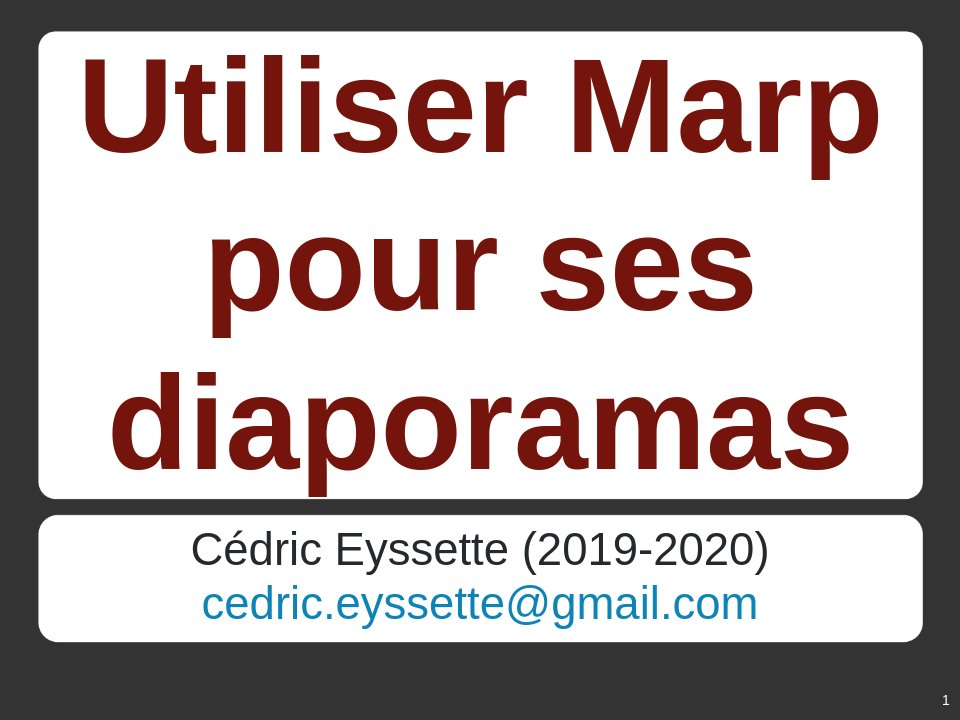
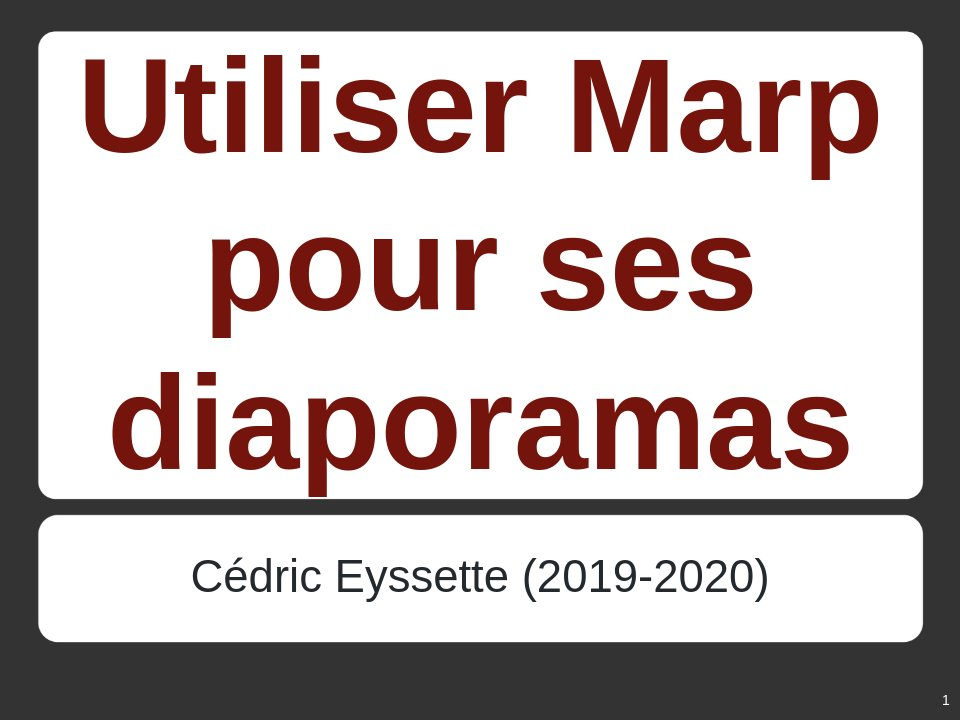
Deploying to master from  @ ca454c2c096dabcb8ff1154290762009a421ff03 🚀

Changed region(s): [[0.1875, 0.7333, 0.8125, 0.8861]]

diff --git a/index.html b/index.html
@@ -115,12 +115,11 @@
 /* MISE EN PAGE COMPLEXE */div#p>svg>foreignObject>section.grille.quadrillage{
     /*background-image: url('./images/quadrillage.png');*/background-image:url('https://i.ibb.co/RDz0HNP/quadrillage.png')}div#p>svg>foreignObject>section.grille{display:grid;grid-template-columns:repeat(96,1fr);grid-template-rows:repeat(72,1fr) ;margin:0;padding:0;padding-top:2px;padding-left:12px;font-size:2.5rem}div#p>svg>foreignObject>section.grille h1,div#p>svg>foreignObject>section.grille h2,div#p>svg>foreignObject>section.grille h3,div#p>svg>foreignObject>section.grille h4,div#p>svg>foreignObject>section.grille p{margin:0;padding:0}div#p>svg>foreignObject>section.grille p img{object-fit:cover;max-width:100%;max-height:100%}div#p>svg>foreignObject>section.grille h1,div#p>svg>foreignObject>section.grille h2,div#p>svg>foreignObject>section.grille h3,div#p>svg>foreignObject>section.grille h4{padding-top:20px;margin-bottom:0px}div#p>svg>foreignObject>section.grille ul{margin:0;padding:10px 0px 0px 0px}div#p>svg>foreignObject>section.grille ul li{padding-left:60px;padding-right:10px}
 
-/* Redimensionner l'image pour qu'on la voit en entier dans le cadre */div#p>svg>foreignObject>section.contain p img{object-fit:contain!important}div#p>svg>foreignObject>section{width:960px;height:720px}div#p>svg>foreignObject>section[data-marpit-scope-MJyUfqZo] ol{list-style-type:none}
+/* Redimensionner l'image pour qu'on la voit en entier dans le cadre */div#p>svg>foreignObject>section.contain p img{object-fit:contain!important}div#p>svg>foreignObject>section{width:960px;height:720px}div#p>svg>foreignObject>section[data-marpit-scope-gxhOQn8t] ol{list-style-type:none}
 
-/* La compilation via Github ne permet pas l'usage de la balise div, mais on peut l'utiliser en compilant sur son ordinateur */div#p>svg>foreignObject>section[data-marpit-scope-MaMjgymm] ul{padding-left:1.8em;background-color:inherit}div#p>svg>foreignObject>section[data-marpit-scope-MaMjgymm] ul li{padding-left:0.2em;list-style-type:disc}div#p>svg>foreignObject>section[data-marpit-scope-MaMjgymm] ul ul li{list-style-type:circle}div#p>svg>foreignObject>section[data-marpit-scope-MaMjgymm] ul li:before{content:none}div#p>svg>foreignObject>section[data-marpit-scope-UPJhga9a] p:first-child{padding-bottom:5px}div#p>svg>foreignObject>section[data-marpit-scope-6UpFrOlH] img{height:510px}div#p>svg>foreignObject>section[data-marpit-scope-eBx8w5tY] p:first-child img{object-position:0px -40px}div#p>svg>foreignObject>section[data-marpit-scope-FQkBxwo2] p:nth-child(2) img{object-position:0px -20px}div#p>svg>foreignObject>section[data-marpit-scope-YHFjHeTM] :first-child{font-size:inherit;grid-area:1/1/1/-1}div#p>svg>foreignObject>section[data-marpit-scope-YHFjHeTM] :nth-child(2){font-size:inherit;grid-area:1/1/-1/-1;display:none!important}div#p>svg>foreignObject>section[data-marpit-scope-YHFjHeTM] :nth-child(3){font-size:inherit;grid-area:1/1/-1/-1;display:none!important}div#p>svg>foreignObject>section[data-marpit-scope-YHFjHeTM] :nth-child(4){font-size:inherit;grid-area:1/1/-1/-1;display:none!important}div#p>svg>foreignObject>section[data-marpit-scope-YHFjHeTM] :nth-child(5){font-size:inherit;grid-area:1/1/-1/-1;display:none!important}div#p>svg>foreignObject>section[data-marpit-scope-odD5WvvO] :first-child{font-size:inherit;grid-area:7/6/25/-6}div#p>svg>foreignObject>section[data-marpit-scope-odD5WvvO] :nth-child(2){font-size:inherit;grid-area:32/6/-25/-6}div#p>svg>foreignObject>section[data-marpit-scope-odD5WvvO] :nth-child(3){font-size:29px;grid-area:32/22/-8/-6}div#p>svg>foreignObject>section[data-marpit-scope-odD5WvvO] :nth-child(4){font-size:inherit;grid-area:2/2/-2/-2;display:none!important}div#p>svg>foreignObject>section[data-marpit-scope-odD5WvvO] :nth-child(5){font-size:inherit;grid-area:2/2/-2/-2;display:none!important}div#p>svg>foreignObject>section[data-marpit-advanced-background=background]{display:block!important;padding:0!important}div#p>svg>foreignObject>section[data-marpit-advanced-background=background]:after,div#p>svg>foreignObject>section[data-marpit-advanced-background=background]:before,div#p>svg>foreignObject>section[data-marpit-advanced-background=content]:after,div#p>svg>foreignObject>section[data-marpit-advanced-background=content]:before{display:none!important}div#p>svg>foreignObject>section[data-marpit-advanced-background=background]>div[data-marpit-advanced-background-container]{all:initial;display:flex;flex-direction:row;height:100%;overflow:hidden;width:100%}div#p>svg>foreignObject>section[data-marpit-advanced-background=background]>div[data-marpit-advanced-background-container][data-marpit-advanced-background-direction=vertical]{flex-direction:column}div#p>svg>foreignObject>section[data-marpit-advanced-background=background][data-marpit-advanced-background-split]>div[data-marpit-advanced-background-container]{width:var(--marpit-advanced-background-split,50%)}div#p>svg>foreignObject>section[data-marpit-advanced-background=background][data-marpit-advanced-background-split=right]>div[data-marpit-advanced-background-container]{margin-left:calc(100% - var(--marpit-advanced-background-split, 50%))}div#p>svg>foreignObject>section[data-marpit-advanced-background=background]>div[data-marpit-advanced-background-container]>figure{all:initial;background-position:center;background-repeat:no-repeat;background-size:cover;flex:auto;margin:0}div#p>svg>foreignObject>section[data-marpit-advanced-background=content],div#p>svg>foreignObject>section[data-marpit-advanced-background=pseudo]{background:transparent!important}div#p>svg>foreignObject>section[data-marpit-advanced-background=pseudo],div#p>svg[data-marpit-svg]>foreignObject[data-marpit-advanced-background=pseudo]{pointer-events:none!important}div#p>svg>foreignObject>section[data-marpit-advanced-background-split]{width:100%;height:100%}</style></head><body><div class="bespoke-marp-osc"><button data-bespoke-marp-osc="prev" tabindex="-1" title="Previous slide">Previous slide</button><span data-bespoke-marp-osc="page"></span><button data-bespoke-marp-osc="next" tabindex="-1" title="Next slide">Next slide</button><button data-bespoke-marp-osc="fullscreen" tabindex="-1" title="Toggle fullscreen (f)">Toggle fullscreen</button><button data-bespoke-marp-osc="presenter" tabindex="-1" title="Open presenter view (p)">Open presenter view</button></div><div id="p"><svg data-marpit-svg="" viewBox="0 0 960 720"><foreignObject width="960" height="720"><section id="1" data-paginate="true" data-class="titre" data-theme="teaching" class="titre" data-marpit-pagination="1" data-marpit-pagination-total="103" style="--paginate:true;--class:titre;--theme:teaching;" data-size="4:3">
+/* La compilation via Github ne permet pas l'usage de la balise div, mais on peut l'utiliser en compilant sur son ordinateur */div#p>svg>foreignObject>section[data-marpit-scope-sZcD5CNo] ul{padding-left:1.8em;background-color:inherit}div#p>svg>foreignObject>section[data-marpit-scope-sZcD5CNo] ul li{padding-left:0.2em;list-style-type:disc}div#p>svg>foreignObject>section[data-marpit-scope-sZcD5CNo] ul ul li{list-style-type:circle}div#p>svg>foreignObject>section[data-marpit-scope-sZcD5CNo] ul li:before{content:none}div#p>svg>foreignObject>section[data-marpit-scope-gUMqyHSF] p:first-child{padding-bottom:5px}div#p>svg>foreignObject>section[data-marpit-scope-tJkUoSXH] img{height:510px}div#p>svg>foreignObject>section[data-marpit-scope-Hx0HiMnY] p:first-child img{object-position:0px -40px}div#p>svg>foreignObject>section[data-marpit-scope-Z1LrNy5x] p:nth-child(2) img{object-position:0px -20px}div#p>svg>foreignObject>section[data-marpit-scope-8q75qmqx] :first-child{font-size:inherit;grid-area:1/1/1/-1}div#p>svg>foreignObject>section[data-marpit-scope-8q75qmqx] :nth-child(2){font-size:inherit;grid-area:1/1/-1/-1;display:none!important}div#p>svg>foreignObject>section[data-marpit-scope-8q75qmqx] :nth-child(3){font-size:inherit;grid-area:1/1/-1/-1;display:none!important}div#p>svg>foreignObject>section[data-marpit-scope-8q75qmqx] :nth-child(4){font-size:inherit;grid-area:1/1/-1/-1;display:none!important}div#p>svg>foreignObject>section[data-marpit-scope-8q75qmqx] :nth-child(5){font-size:inherit;grid-area:1/1/-1/-1;display:none!important}div#p>svg>foreignObject>section[data-marpit-scope-FpRiP252] :first-child{font-size:inherit;grid-area:7/6/25/-6}div#p>svg>foreignObject>section[data-marpit-scope-FpRiP252] :nth-child(2){font-size:inherit;grid-area:32/6/-25/-6}div#p>svg>foreignObject>section[data-marpit-scope-FpRiP252] :nth-child(3){font-size:29px;grid-area:32/22/-8/-6}div#p>svg>foreignObject>section[data-marpit-scope-FpRiP252] :nth-child(4){font-size:inherit;grid-area:2/2/-2/-2;display:none!important}div#p>svg>foreignObject>section[data-marpit-scope-FpRiP252] :nth-child(5){font-size:inherit;grid-area:2/2/-2/-2;display:none!important}div#p>svg>foreignObject>section[data-marpit-advanced-background=background]{display:block!important;padding:0!important}div#p>svg>foreignObject>section[data-marpit-advanced-background=background]:after,div#p>svg>foreignObject>section[data-marpit-advanced-background=background]:before,div#p>svg>foreignObject>section[data-marpit-advanced-background=content]:after,div#p>svg>foreignObject>section[data-marpit-advanced-background=content]:before{display:none!important}div#p>svg>foreignObject>section[data-marpit-advanced-background=background]>div[data-marpit-advanced-background-container]{all:initial;display:flex;flex-direction:row;height:100%;overflow:hidden;width:100%}div#p>svg>foreignObject>section[data-marpit-advanced-background=background]>div[data-marpit-advanced-background-container][data-marpit-advanced-background-direction=vertical]{flex-direction:column}div#p>svg>foreignObject>section[data-marpit-advanced-background=background][data-marpit-advanced-background-split]>div[data-marpit-advanced-background-container]{width:var(--marpit-advanced-background-split,50%)}div#p>svg>foreignObject>section[data-marpit-advanced-background=background][data-marpit-advanced-background-split=right]>div[data-marpit-advanced-background-container]{margin-left:calc(100% - var(--marpit-advanced-background-split, 50%))}div#p>svg>foreignObject>section[data-marpit-advanced-background=background]>div[data-marpit-advanced-background-container]>figure{all:initial;background-position:center;background-repeat:no-repeat;background-size:cover;flex:auto;margin:0}div#p>svg>foreignObject>section[data-marpit-advanced-background=content],div#p>svg>foreignObject>section[data-marpit-advanced-background=pseudo]{background:transparent!important}div#p>svg>foreignObject>section[data-marpit-advanced-background=pseudo],div#p>svg[data-marpit-svg]>foreignObject[data-marpit-advanced-background=pseudo]{pointer-events:none!important}div#p>svg>foreignObject>section[data-marpit-advanced-background-split]{width:100%;height:100%}</style></head><body><div class="bespoke-marp-osc"><button data-bespoke-marp-osc="prev" tabindex="-1" title="Previous slide">Previous slide</button><span data-bespoke-marp-osc="page"></span><button data-bespoke-marp-osc="next" tabindex="-1" title="Next slide">Next slide</button><button data-bespoke-marp-osc="fullscreen" tabindex="-1" title="Toggle fullscreen (f)">Toggle fullscreen</button><button data-bespoke-marp-osc="presenter" tabindex="-1" title="Open presenter view (p)">Open presenter view</button></div><div id="p"><svg data-marpit-svg="" viewBox="0 0 960 720"><foreignObject width="960" height="720"><section id="1" data-paginate="true" data-class="titre" data-theme="teaching" class="titre" data-marpit-pagination="1" data-marpit-pagination-total="103" style="--paginate:true;--class:titre;--theme:teaching;" data-size="4:3">
 <h1><svg data-marp-fitting="svg"><foreignObject><span data-marp-fitting-svg-content>Utiliser Marp<br /> pour ses<br /> diaporamas </span></foreignObject></svg></h1>
-<p>Cédric Eyssette (2019-2020)<br />
-<a href="ma&#105;l&#116;o&#58;c%6&#53;%64%&#55;2ic&#46;&#101;%79&#37;73%73&#37;&#54;5&#116;%74e&#64;g&#109;ai%6C&#46;%6&#51;om">Contactez-moi</a></p>
+<p>Cédric Eyssette (2019-2020)</p>
 </section>
 </foreignObject></svg><svg data-marpit-svg="" viewBox="0 0 960 720"><foreignObject width="960" height="720"><section id="2" data-paginate="true" data-theme="teaching" data-marpit-pagination="2" data-marpit-pagination-total="103" style="--paginate:true;--theme:teaching;" data-size="4:3">
 <p><a href="https://marp.app/">Marp</a> est un outil qui permet de créer un diaporama à partir d'un fichier texte, écrit avec une syntaxe très simple.</p>
@@ -137,7 +136,7 @@
 </li>
 </ol>
 </section>
-</foreignObject></svg><svg data-marpit-svg="" viewBox="0 0 960 720"><foreignObject width="960" height="720"><section id="4" data-marpit-scope-MJyUfqZo="" data-paginate="true" data-theme="teaching" data-marpit-pagination="4" data-marpit-pagination-total="103" style="--paginate:true;--theme:teaching;" data-size="4:3">
+</foreignObject></svg><svg data-marpit-svg="" viewBox="0 0 960 720"><foreignObject width="960" height="720"><section id="4" data-marpit-scope-gxhOQn8t="" data-paginate="true" data-theme="teaching" data-marpit-pagination="4" data-marpit-pagination-total="103" style="--paginate:true;--theme:teaching;" data-size="4:3">
 <p>Ce diaporama a été créé avec ce système et sert à en illustrer les fonctionnalités :</p>
 <ol>
 <li>I – Organiser son diaporama</li>
@@ -190,7 +189,7 @@ apparaître en pleine page</p>
 <li>Question posée aux élèves : ………… ?</li>
 </ul>
 </section>
-</foreignObject></svg><svg data-marpit-svg="" viewBox="0 0 960 720"><foreignObject width="960" height="720"><section id="14" data-marpit-scope-MaMjgymm="" data-paginate="true" data-class="puces" data-theme="teaching" class="puces" data-marpit-pagination="14" data-marpit-pagination-total="103" style="--paginate:true;--class:puces;--theme:teaching;" data-size="4:3">
+</foreignObject></svg><svg data-marpit-svg="" viewBox="0 0 960 720"><foreignObject width="960" height="720"><section id="14" data-marpit-scope-sZcD5CNo="" data-paginate="true" data-class="puces" data-theme="teaching" class="puces" data-marpit-pagination="14" data-marpit-pagination-total="103" style="--paginate:true;--class:puces;--theme:teaching;" data-size="4:3">
 <p>Pour utiliser les puces ordinaires, on encadre les puces avec la balise <code>&lt;div class=&quot;puces&quot;&gt;&lt;/div&gt;</code></p>
 <ul>
 <li>puce ordinaire
@@ -602,7 +601,7 @@ et le texte dans votre fichier en Markdown.</p>
 <p><img src="https://pbs.twimg.com/media/ETu0VirWoAgwlqs.jpg" alt="" /></p>
 <p>Un extrait de Minority Report <a href="https://drive.google.com/file/d/10Rz6T-5OkkDlnwSzHse2SnyMd7ZiT-HF/view?usp=sharing">+</a></p>
 </section>
-</foreignObject></svg><svg data-marpit-svg="" viewBox="0 0 960 720"><foreignObject width="960" height="720"><section id="71" data-marpit-scope-UPJhga9a="" data-paginate="true" data-class="i1t1 vertical" data-theme="teaching" class="i1t1 vertical" data-marpit-pagination="71" data-marpit-pagination-total="103" style="--paginate:true;--class:i1t1 vertical;--theme:teaching;" data-size="4:3">
+</foreignObject></svg><svg data-marpit-svg="" viewBox="0 0 960 720"><foreignObject width="960" height="720"><section id="71" data-marpit-scope-gUMqyHSF="" data-paginate="true" data-class="i1t1 vertical" data-theme="teaching" class="i1t1 vertical" data-marpit-pagination="71" data-marpit-pagination-total="103" style="--paginate:true;--class:i1t1 vertical;--theme:teaching;" data-size="4:3">
 <p>Platon : le mythe d'Aristophane</p>
 <p><img src="https://vignette.wikia.nocookie.net/lettresantiques/images/7/78/Clivage-de-landrogyne.jpg/revision/latest?cb=20141118131404&amp;path-prefix=fr" alt="" /></p>
 </section>
@@ -629,7 +628,7 @@ et le texte dans votre fichier en Markdown.</p>
 <p>Si on souhaite avoir une image plus petite, on peut le faire en transformant le style de mise en page seulement pour cette diapositive :</p>
 <p><code> &lt;style scoped&gt; section img {height:510px;} &lt;/style&gt;</code></p>
 </section>
-</foreignObject></svg><svg data-marpit-svg="" viewBox="0 0 960 720"><foreignObject width="960" height="720"><section id="77" data-marpit-scope-6UpFrOlH="" data-paginate="true" data-class="i1t1 vertical pp fmmmm" data-theme="teaching" class="i1t1 vertical pp fmmmm" data-marpit-pagination="77" data-marpit-pagination-total="103" style="--paginate:true;--class:i1t1 vertical pp fmmmm;--theme:teaching;" data-size="4:3">
+</foreignObject></svg><svg data-marpit-svg="" viewBox="0 0 960 720"><foreignObject width="960" height="720"><section id="77" data-marpit-scope-tJkUoSXH="" data-paginate="true" data-class="i1t1 vertical pp fmmmm" data-theme="teaching" class="i1t1 vertical pp fmmmm" data-marpit-pagination="77" data-marpit-pagination-total="103" style="--paginate:true;--class:i1t1 vertical pp fmmmm;--theme:teaching;" data-size="4:3">
 <p><img src="https://www.tate.org.uk/art/images/work/T/T07/T07573_9.jpg" alt="" /></p>
 <ul>
 <li>Pourquoi cet objet ne semble-t-il pas, à première vue, être une œuvre d’art ? Qu’attendons-nous d’une œuvre d’art ?</li>
@@ -710,7 +709,7 @@ l'affichage en pleine page.</p>
 <p><br />Par exemple :</p>
 <p><code>&lt;style scoped&gt; p:nth-child(1) img {object-position:0px -40px} &lt;/style&gt;</code></p>
 </section>
-</foreignObject></svg><svg data-marpit-svg="" viewBox="0 0 960 720"><foreignObject width="960" height="720"><section id="91" data-marpit-scope-eBx8w5tY="" data-paginate="true" data-class="i2t0 vertical pp" data-theme="teaching" class="i2t0 vertical pp" data-marpit-pagination="91" data-marpit-pagination-total="103" style="--paginate:true;--class:i2t0 vertical pp;--theme:teaching;" data-size="4:3">
+</foreignObject></svg><svg data-marpit-svg="" viewBox="0 0 960 720"><foreignObject width="960" height="720"><section id="91" data-marpit-scope-Hx0HiMnY="" data-paginate="true" data-class="i2t0 vertical pp" data-theme="teaching" class="i2t0 vertical pp" data-marpit-pagination="91" data-marpit-pagination-total="103" style="--paginate:true;--class:i2t0 vertical pp;--theme:teaching;" data-size="4:3">
 <p><img src="https://usbeketrica.com/media/1972/download/5b51b6806d0e2.jpg?v=1&amp;inline=1" alt="" /></p>
 <p><img src="https://pbs.twimg.com/media/ETu0VirWoAgwlqs.jpg" alt="" /></p>
 </section>
@@ -732,7 +731,7 @@ l'affichage en pleine page.</p>
 <p>On utilise la classe <code>i4t0</code>.</p>
 <p>On ajoute <code>pp</code>pour un affichage en pleine page.</p>
 </section>
-</foreignObject></svg><svg data-marpit-svg="" viewBox="0 0 960 720"><foreignObject width="960" height="720"><section id="98" data-marpit-scope-FQkBxwo2="" data-paginate="true" data-class="i4t0 pp" data-theme="teaching" class="i4t0 pp" data-marpit-pagination="98" data-marpit-pagination-total="103" style="--paginate:true;--class:i4t0 pp;--theme:teaching;" data-size="4:3">
+</foreignObject></svg><svg data-marpit-svg="" viewBox="0 0 960 720"><foreignObject width="960" height="720"><section id="98" data-marpit-scope-Z1LrNy5x="" data-paginate="true" data-class="i4t0 pp" data-theme="teaching" class="i4t0 pp" data-marpit-pagination="98" data-marpit-pagination-total="103" style="--paginate:true;--class:i4t0 pp;--theme:teaching;" data-size="4:3">
 <p><img src="https://upload.wikimedia.org/wikipedia/commons/thumb/a/ae/StillLifeWithASkull.jpg/1564px-StillLifeWithASkull.jpg" alt="" /></p>
 <p><img src="https://upload.wikimedia.org/wikipedia/commons/d/d2/Georges_de_La_Tour_-_The_Penitent_Magdalen_-_WGA12339.jpg" alt="" /></p>
 <p><img src="https://upload.wikimedia.org/wikipedia/commons/3/35/Pieter_van_Steenwyck_001.jpg" alt="" /></p>
@@ -746,8 +745,8 @@ l'affichage en pleine page.</p>
 <p>On utilise la classe <code>grille</code>. On peut tout d'abord s'aider avec un quadrillage, que l'on fait apparaître, temporairement, avec la classe <code>quadrillage</code>.</p>
 <p>On dispose alors les éléments avec la propriété CSS <code>grid-area</code>.</p>
 </section>
-</foreignObject></svg><svg data-marpit-svg="" viewBox="0 0 960 720"><foreignObject width="960" height="720"><section id="101" data-marpit-scope-YHFjHeTM="" data-paginate="true" data-class="grille quadrillage" data-theme="teaching" class="grille quadrillage" data-marpit-pagination="101" data-marpit-pagination-total="103" style="--paginate:true;--class:grille quadrillage;--theme:teaching;" data-size="4:3"></section>
-</foreignObject></svg><svg data-marpit-svg="" viewBox="0 0 960 720"><foreignObject width="960" height="720"><section id="102" data-marpit-scope-odD5WvvO="" data-paginate="true" data-class="grille" data-theme="teaching" class="grille" data-marpit-pagination="102" data-marpit-pagination-total="103" style="--paginate:true;--class:grille;--theme:teaching;" data-size="4:3">
+</foreignObject></svg><svg data-marpit-svg="" viewBox="0 0 960 720"><foreignObject width="960" height="720"><section id="101" data-marpit-scope-8q75qmqx="" data-paginate="true" data-class="grille quadrillage" data-theme="teaching" class="grille quadrillage" data-marpit-pagination="101" data-marpit-pagination-total="103" style="--paginate:true;--class:grille quadrillage;--theme:teaching;" data-size="4:3"></section>
+</foreignObject></svg><svg data-marpit-svg="" viewBox="0 0 960 720"><foreignObject width="960" height="720"><section id="102" data-marpit-scope-FpRiP252="" data-paginate="true" data-class="grille" data-theme="teaching" class="grille" data-marpit-pagination="102" data-marpit-pagination-total="103" style="--paginate:true;--class:grille;--theme:teaching;" data-size="4:3">
 <p>Cette idée que l'harmonie se définit objectivement par des rapports numériques, par des proportions définies, correspond à la <strong>conception pythagoricienne du Beau</strong>.</p>
 <p><img src="https://upload.wikimedia.org/wikipedia/commons/1/1a/Kapitolinischer_Pythagoras_adjusted.jpg" alt="" /></p>
 <ul>
@@ -760,11 +759,11 @@ l'affichage en pleine page.</p>
 <p>Ce thème pour le logiciel <a href="https://marp.app/">Marp</a> s'intitule <em>teaching</em>. Vous pouvez l'utiliser pour vos diapositives, le modifier. Il est <a href="https://github.com/eyssette/teaching-theme-for-marp">publié sur Github</a>.</p>
 <p>Merci de me faire part de vos usages, de vos remarques et de vos suggestions d'amélioration !</p>
 <ul>
-<li>Email : <a href="ma&#105;l&#116;o&#58;c%6&#53;%64%&#55;2ic&#46;&#101;%79&#37;73%73&#37;&#54;5&#116;%74e&#64;g&#109;ai%6C&#46;%6&#51;om">contactez-moi</a></li>
+<li>Email : &lt;a href="ma&#105;l&#116;o&#58;c%6&#53;%64%&#55;2ic&#46;&#101;%79&#37;73%73&#37;&#54;5&#116;%74e&#64;g&#109;ai%6C&#46;%6&#51;om"&gt;contactez-moi&lt;/a&gt;</li>
 </ul>
 </section>
 <script>!function(){"use strict";function t(t){Array.from(document.getElementsByTagName("svg"),e=>{if(e.hasAttribute("data-marpit-svg")){const{clientHeight:r,clientWidth:a}=e;e.style.transform||(e.style.transform="translateZ(0)");const o=t||e.currentScale||1,i=e.viewBox.baseVal.width/o,n=e.viewBox.baseVal.height/o,s=Math.min(r/n,a/i);Array.from(e.querySelectorAll(":scope > foreignObject"),t=>{const e=t.x.baseVal.value,o=t.y.baseVal.value;Array.from(t.querySelectorAll(":scope > section"),t=>{t.style.transformOrigin||(t.style.transformOrigin="0 0");const l=(a-s*i)/2-e,c=(r-s*n)/2-o;t.style.transform=`translate3d(${l}px,${c}px,0) scale(${s}) translate(${e}px,${o}px)`})})}})}const e=(t,e,r)=>{if(t.getAttribute(e)!==r)return t.setAttribute(e,r),!0};function r(a=!0){for(const e of"Apple Computer, Inc."===navigator.vendor?[t]:[])e();Array.from(document.querySelectorAll('svg[data-marp-fitting="svg"]'),t=>{const r=t.firstChild,a=r.firstChild,{scrollWidth:o,scrollHeight:i}=a;let n,s=1;if(t.hasAttribute("data-marp-fitting-code")&&(n=t.parentElement.parentElement),t.hasAttribute("data-marp-fitting-math")&&(n=t.parentElement),n){const t=getComputedStyle(n),e=Math.ceil(n.clientWidth-parseFloat(t.paddingLeft)-parseFloat(t.paddingRight));e&&(s=e)}const l=Math.max(o,s),c=Math.max(i,1),p=`0 0 ${l} ${c}`;e(r,"width",""+l),e(r,"height",""+c),e(t,"preserveAspectRatio",getComputedStyle(t).getPropertyValue("--preserve-aspect-ratio")||"xMinYMin meet"),e(t,"viewBox",p)&&t.classList.toggle("__reflow__")}),a&&window.requestAnimationFrame(()=>r(a))}!function(){if("undefined"==typeof window)throw new Error("Marp Core's browser script is valid only in browser context.");window.marpCoreBrowserScript?console.warn("Marp Core's browser script has already executed."):(Object.defineProperty(window,"marpCoreBrowserScript",{value:!0}),r())}()}();
-</script></foreignObject></svg></div><div class="bespoke-marp-note" data-index="7" tabindex="0"><p>Code html trait d’union insécable :  &amp;#8209;</p></div><div class="bespoke-marp-note" data-index="47" tabindex="0"><p>TODO : Utiliser du bleu (pour la couleur de la conceptualisation)</p></div><div class="bespoke-marp-note" data-index="64" tabindex="0"><p>https://www.pastery.net/buhwpe/</p></div><div class="bespoke-marp-note" data-index="65" tabindex="0"><p>https://www.pastery.net/buhwpe/</p></div><div class="bespoke-marp-note" data-index="66" tabindex="0"><p>https://www.pastery.net/buhwpe/</p></div><div class="bespoke-marp-note" data-index="67" tabindex="0"><p>https://www.pastery.net/buhwpe/</p></div><script>!function(){"use strict";var e=function(e,t){var n,r=1===(e.parent||e).nodeType?e.parent||e:document.querySelector(e.parent||e),s=[].filter.call("string"==typeof e.slides?r.querySelectorAll(e.slides):e.slides||r.children,(function(e){return"SCRIPT"!==e.nodeName})),a={},o=function(e,t){return(t=t||{}).index=s.indexOf(e),t.slide=e,t},i=function(e,t){a[e]=(a[e]||[]).filter((function(e){return e!==t}))},l=function(e,t){return(a[e]||[]).reduce((function(e,n){return e&&!1!==n(t)}),!0)},c=function(e,t){s[e]&&(n&&l("deactivate",o(n,t)),n=s[e],l("activate",o(n,t)))},d=function(e,t){var r=s.indexOf(n)+e;l(e>0?"next":"prev",o(n,t))&&c(r,t)},u={off:i,on:function(e,t){return(a[e]||(a[e]=[])).push(t),i.bind(null,e,t)},fire:l,slide:function(e,t){if(!arguments.length)return s.indexOf(n);l("slide",o(s[e],t))&&c(e,t)},next:d.bind(null,1),prev:d.bind(null,-1),parent:r,slides:s,destroy:function(e){l("destroy",o(n,e)),a={}}};return(t||[]).forEach((function(e){e(u)})),n||c(0),u};function t(e){e.parent.classList.add("bespoke-marp-parent"),e.slides.map(e=>e.classList.add("bespoke-marp-slide")),e.on("activate",t=>{e.slides.map(e=>e.classList.remove("bespoke-marp-active")),t.slide.classList.add("bespoke-marp-active")})}function n(e=2e3){return t=>{let n;function r(){n&&clearTimeout(n),n=setTimeout(()=>{t.parent.classList.add("bespoke-marp-inactive")},e),t.parent.classList.remove("bespoke-marp-inactive")}document.addEventListener("mousedown",r),document.addEventListener("mousemove",r),document.addEventListener("touchend",r),setTimeout(r,0)}}const r=["AUDIO","BUTTON","INPUT","SELECT","TEXTAREA","VIDEO"];function s(e){e.parent.addEventListener("keydown",e=>{if(!e.target)return;const t=e.target;(r.includes(t.nodeName)||"true"===t.contentEditable)&&e.stopPropagation()})}function a(e){window.addEventListener("load",()=>{for(const t of e.slides){const e=t.querySelector("[data-marp-fitting]")?"":"hideable";t.setAttribute("data-bespoke-marp-load",e)}})}function o(e){let t=0,n=0;Object.defineProperty(e,"fragments",{enumerable:!0,value:e.slides.map(e=>[null,...e.querySelectorAll("[data-marpit-fragment]")])});const r=r=>void 0!==e.fragments[t][n+r],s=(r,s)=>{t=r,n=s,e.fragments.forEach((e,t)=>{e.forEach((e,n)=>{if(null==e)return;const a=t<r||t===r&&n<=s;e.setAttribute("data-bespoke-marp-fragment",a?"active":"inactive"),t===r&&n===s?e.setAttribute("data-bespoke-marp-current-fragment","current"):e.removeAttribute("data-bespoke-marp-current-fragment")})}),e.fragmentIndex=s;const a={slide:e.slides[r],index:r,fragments:e.fragments[r],fragmentIndex:s};e.fire("fragment",a)};e.on("next",()=>{if(r(1))return s(t,n+1),!1;const a=t+1;e.fragments[a]&&s(a,0)}),e.on("prev",()=>{if(r(-1))return s(t,n-1),!1;const a=t-1;e.fragments[a]&&s(a,e.fragments[a].length-1)}),e.on("slide",({index:t,fragment:n})=>{let r=0;if(void 0!==n){const s=e.fragments[t];if(s){const{length:e}=s;r=-1===n?e-1:Math.min(Math.max(n,0),e-1)}}s(t,r)}),s(0,0)}var i,l=function(e,t){return e(t={exports:{}},t.exports),t.exports}((function(e){
+</script></foreignObject></svg></div><div class="bespoke-marp-note" data-index="7" tabindex="0"><p>Code html trait d'union insécable :  &amp;#8209;</p></div><div class="bespoke-marp-note" data-index="47" tabindex="0"><p>TODO : Utiliser du bleu (pour la couleur de la conceptualisation)</p></div><div class="bespoke-marp-note" data-index="64" tabindex="0"><p>https://www.pastery.net/buhwpe/</p></div><div class="bespoke-marp-note" data-index="65" tabindex="0"><p>https://www.pastery.net/buhwpe/</p></div><div class="bespoke-marp-note" data-index="66" tabindex="0"><p>https://www.pastery.net/buhwpe/</p></div><div class="bespoke-marp-note" data-index="67" tabindex="0"><p>https://www.pastery.net/buhwpe/</p></div><script>!function(){"use strict";var e=function(e,t){var n,r=1===(e.parent||e).nodeType?e.parent||e:document.querySelector(e.parent||e),s=[].filter.call("string"==typeof e.slides?r.querySelectorAll(e.slides):e.slides||r.children,(function(e){return"SCRIPT"!==e.nodeName})),a={},o=function(e,t){return(t=t||{}).index=s.indexOf(e),t.slide=e,t},i=function(e,t){a[e]=(a[e]||[]).filter((function(e){return e!==t}))},l=function(e,t){return(a[e]||[]).reduce((function(e,n){return e&&!1!==n(t)}),!0)},c=function(e,t){s[e]&&(n&&l("deactivate",o(n,t)),n=s[e],l("activate",o(n,t)))},d=function(e,t){var r=s.indexOf(n)+e;l(e>0?"next":"prev",o(n,t))&&c(r,t)},u={off:i,on:function(e,t){return(a[e]||(a[e]=[])).push(t),i.bind(null,e,t)},fire:l,slide:function(e,t){if(!arguments.length)return s.indexOf(n);l("slide",o(s[e],t))&&c(e,t)},next:d.bind(null,1),prev:d.bind(null,-1),parent:r,slides:s,destroy:function(e){l("destroy",o(n,e)),a={}}};return(t||[]).forEach((function(e){e(u)})),n||c(0),u};function t(e){e.parent.classList.add("bespoke-marp-parent"),e.slides.map(e=>e.classList.add("bespoke-marp-slide")),e.on("activate",t=>{e.slides.map(e=>e.classList.remove("bespoke-marp-active")),t.slide.classList.add("bespoke-marp-active")})}function n(e=2e3){return t=>{let n;function r(){n&&clearTimeout(n),n=setTimeout(()=>{t.parent.classList.add("bespoke-marp-inactive")},e),t.parent.classList.remove("bespoke-marp-inactive")}document.addEventListener("mousedown",r),document.addEventListener("mousemove",r),document.addEventListener("touchend",r),setTimeout(r,0)}}const r=["AUDIO","BUTTON","INPUT","SELECT","TEXTAREA","VIDEO"];function s(e){e.parent.addEventListener("keydown",e=>{if(!e.target)return;const t=e.target;(r.includes(t.nodeName)||"true"===t.contentEditable)&&e.stopPropagation()})}function a(e){window.addEventListener("load",()=>{for(const t of e.slides){const e=t.querySelector("[data-marp-fitting]")?"":"hideable";t.setAttribute("data-bespoke-marp-load",e)}})}function o(e){let t=0,n=0;Object.defineProperty(e,"fragments",{enumerable:!0,value:e.slides.map(e=>[null,...e.querySelectorAll("[data-marpit-fragment]")])});const r=r=>void 0!==e.fragments[t][n+r],s=(r,s)=>{t=r,n=s,e.fragments.forEach((e,t)=>{e.forEach((e,n)=>{if(null==e)return;const a=t<r||t===r&&n<=s;e.setAttribute("data-bespoke-marp-fragment",a?"active":"inactive"),t===r&&n===s?e.setAttribute("data-bespoke-marp-current-fragment","current"):e.removeAttribute("data-bespoke-marp-current-fragment")})}),e.fragmentIndex=s;const a={slide:e.slides[r],index:r,fragments:e.fragments[r],fragmentIndex:s};e.fire("fragment",a)};e.on("next",()=>{if(r(1))return s(t,n+1),!1;const a=t+1;e.fragments[a]&&s(a,0)}),e.on("prev",()=>{if(r(-1))return s(t,n-1),!1;const a=t-1;e.fragments[a]&&s(a,e.fragments[a].length-1)}),e.on("slide",({index:t,fragment:n})=>{let r=0;if(void 0!==n){const s=e.fragments[t];if(s){const{length:e}=s;r=-1===n?e-1:Math.min(Math.max(n,0),e-1)}}s(t,r)}),s(0,0)}var i,l=function(e,t){return e(t={exports:{}},t.exports),t.exports}((function(e){
 /*!
   * screenfull
   * v5.0.2 - 2020-02-13
